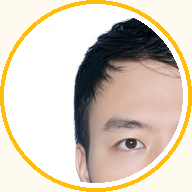
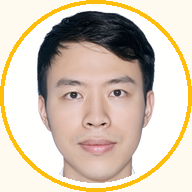
v2: sửa khung cắt ảnh thầy

diff --git a/public/sw.js b/public/sw.js
@@ -1,4 +1,4 @@
-const C='tnn-v2', SHELL=['/','/index.html','/teacher.webp','/manifest.webmanifest','/icon-192.png'];
+const C='tnn-v3', SHELL=['/','/index.html','/teacher.webp','/manifest.webmanifest','/icon-192.png'];
 self.addEventListener('install',e=>e.waitUntil(caches.open(C).then(c=>c.addAll(SHELL))));
 self.addEventListener('activate',e=>e.waitUntil(caches.keys().then(k=>Promise.all(k.filter(x=>x!==C).map(x=>caches.delete(x))))));
 self.addEventListener('fetch',e=>{ const u=new URL(e.request.url); if(u.pathname.startsWith('/api/')||e.request.method!=='GET'||u.pathname.endsWith('.mp4')) return;
